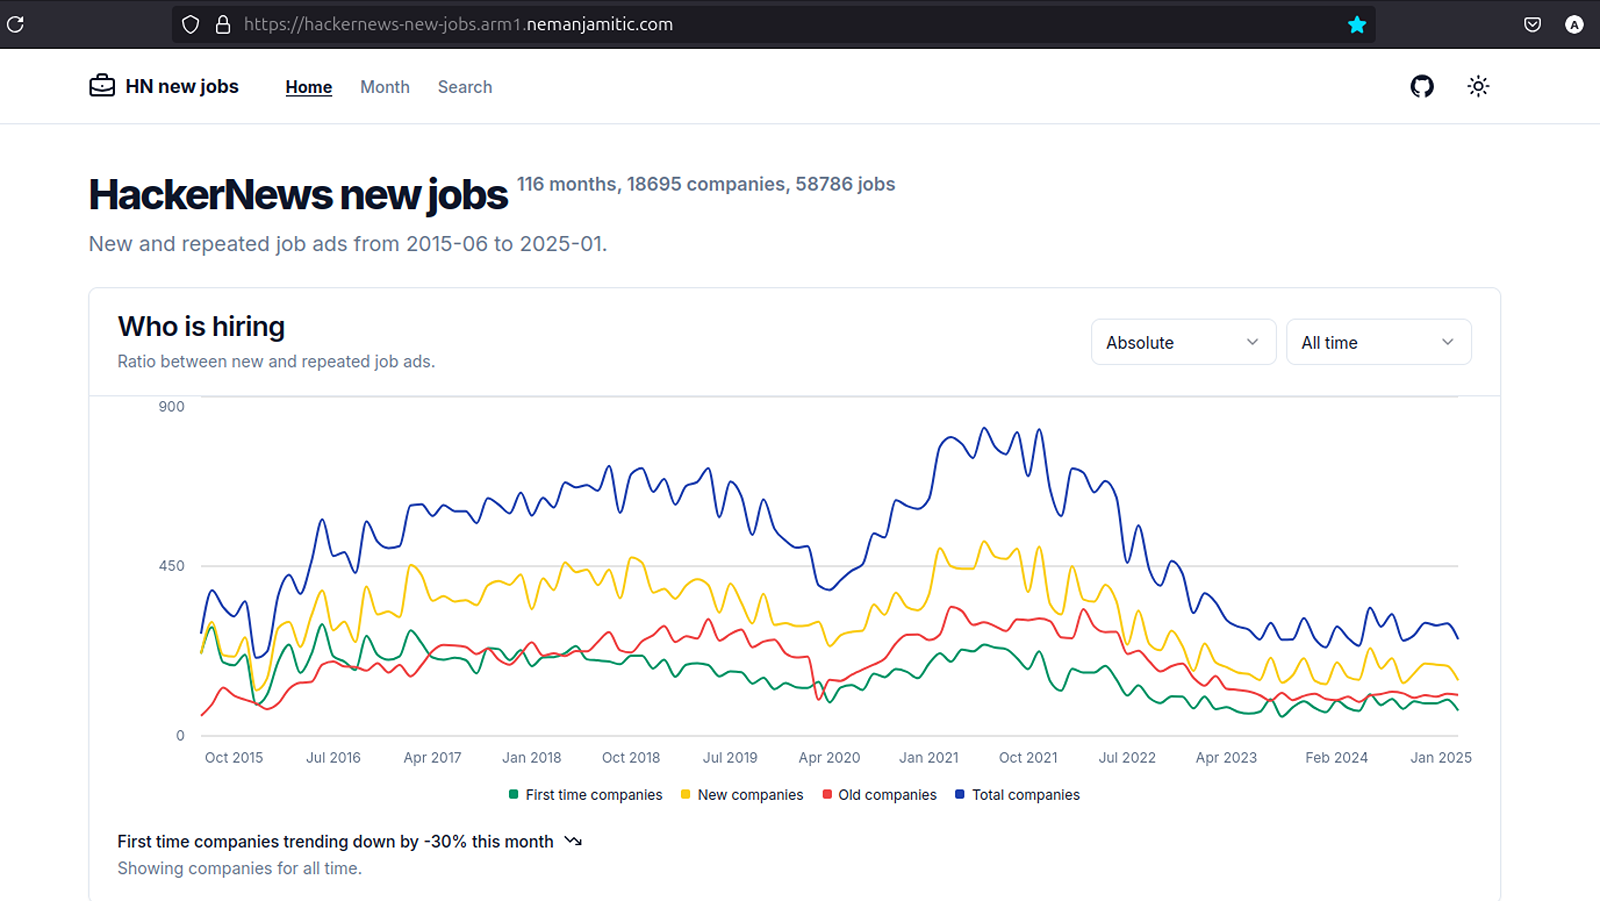
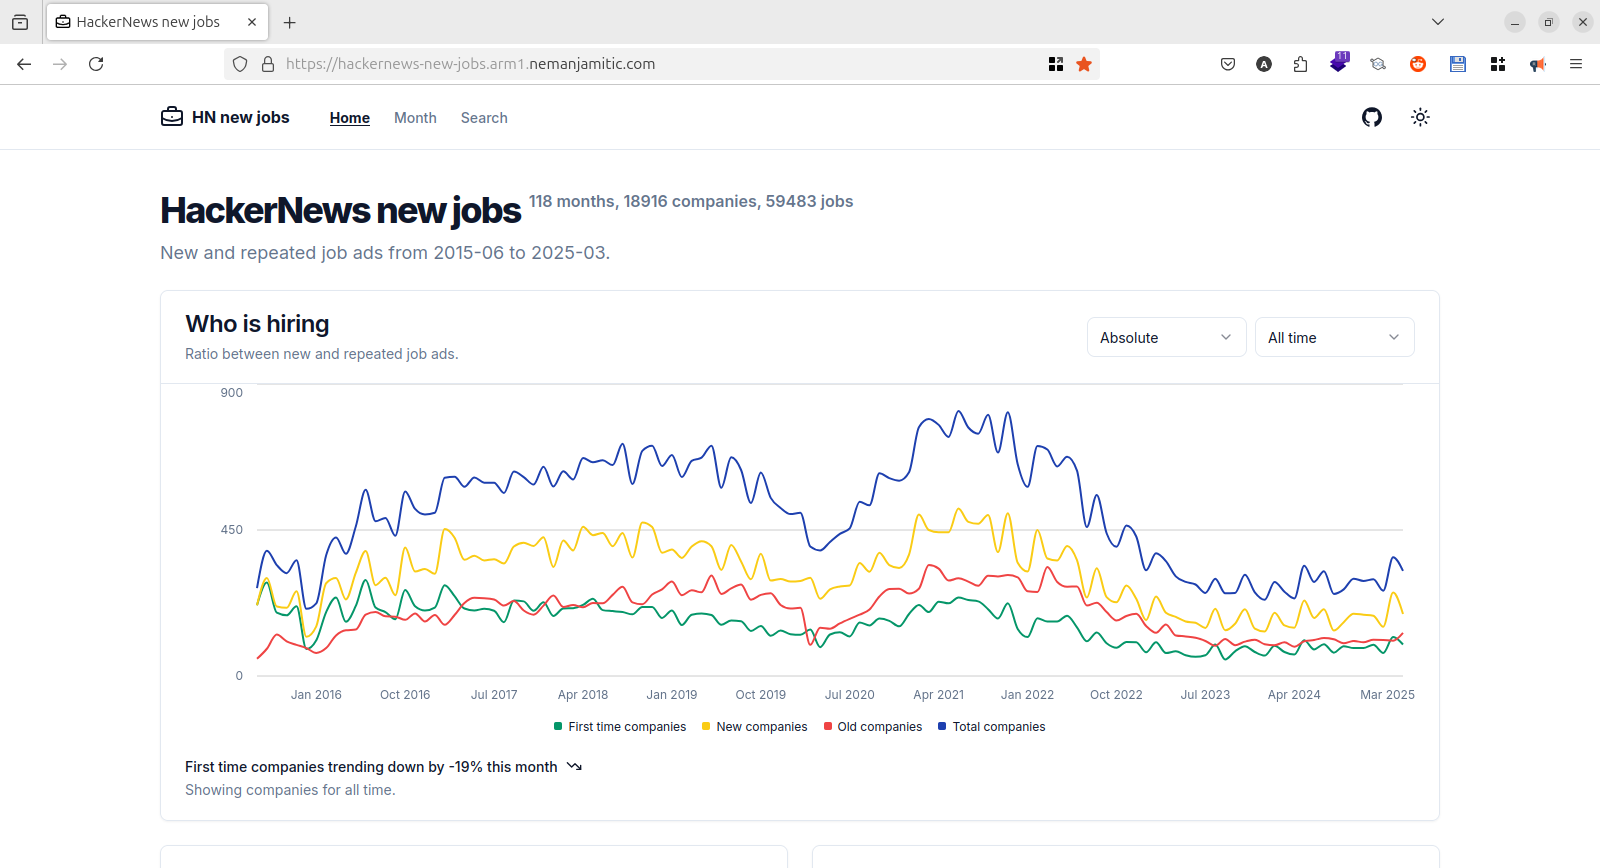
add developer blog, replace screenshots

diff --git a/docs/working-notes/todo4.md b/docs/working-notes/todo4.md
@@ -54,6 +54,7 @@ git checkout feat/tailwind4-v2
 ----------
     astro markdown link in new tab
 mdx not formatting, prettierignore, breaks them
+for screenshots use new not private window and select window in screenshot tool, not screen or selection, hide dock for 16/9 // important
 ```
 
 
